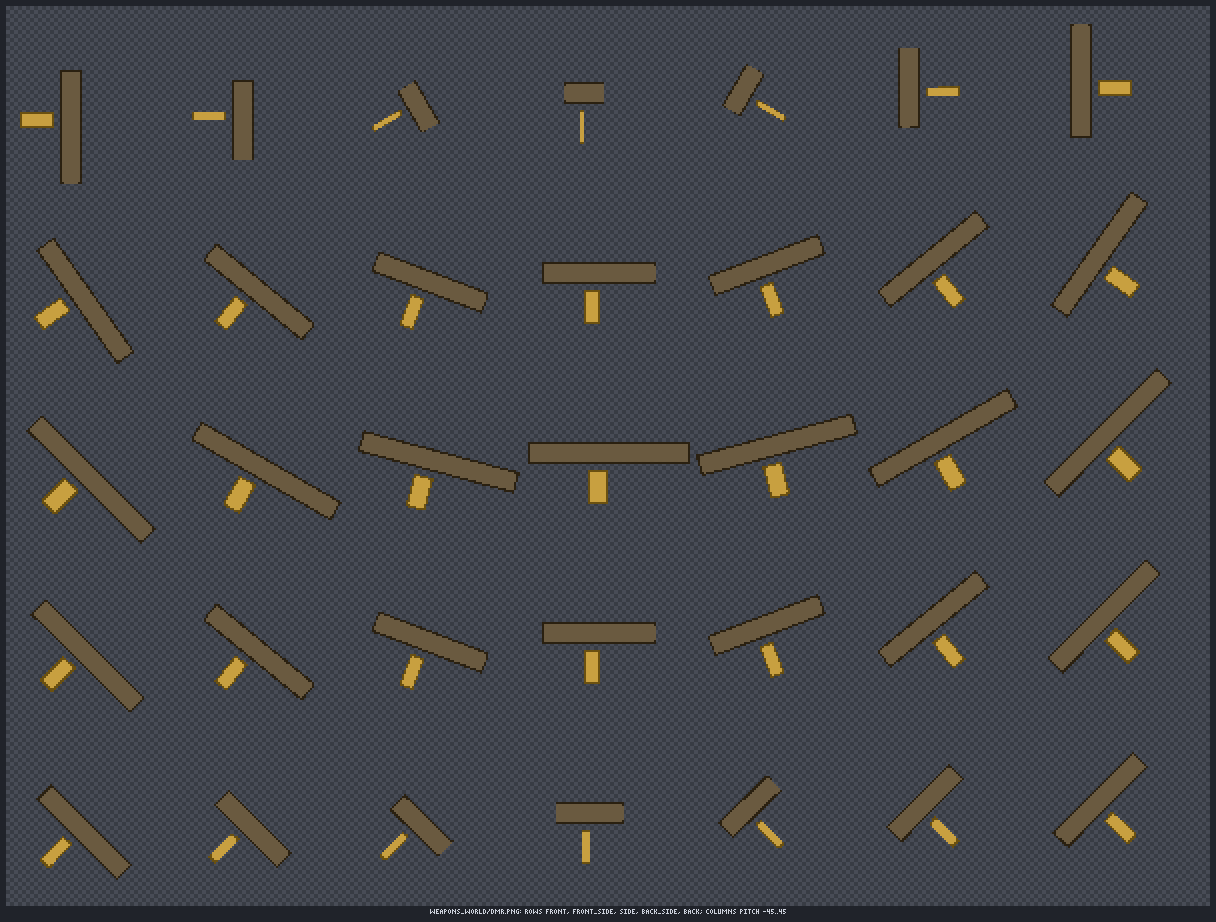
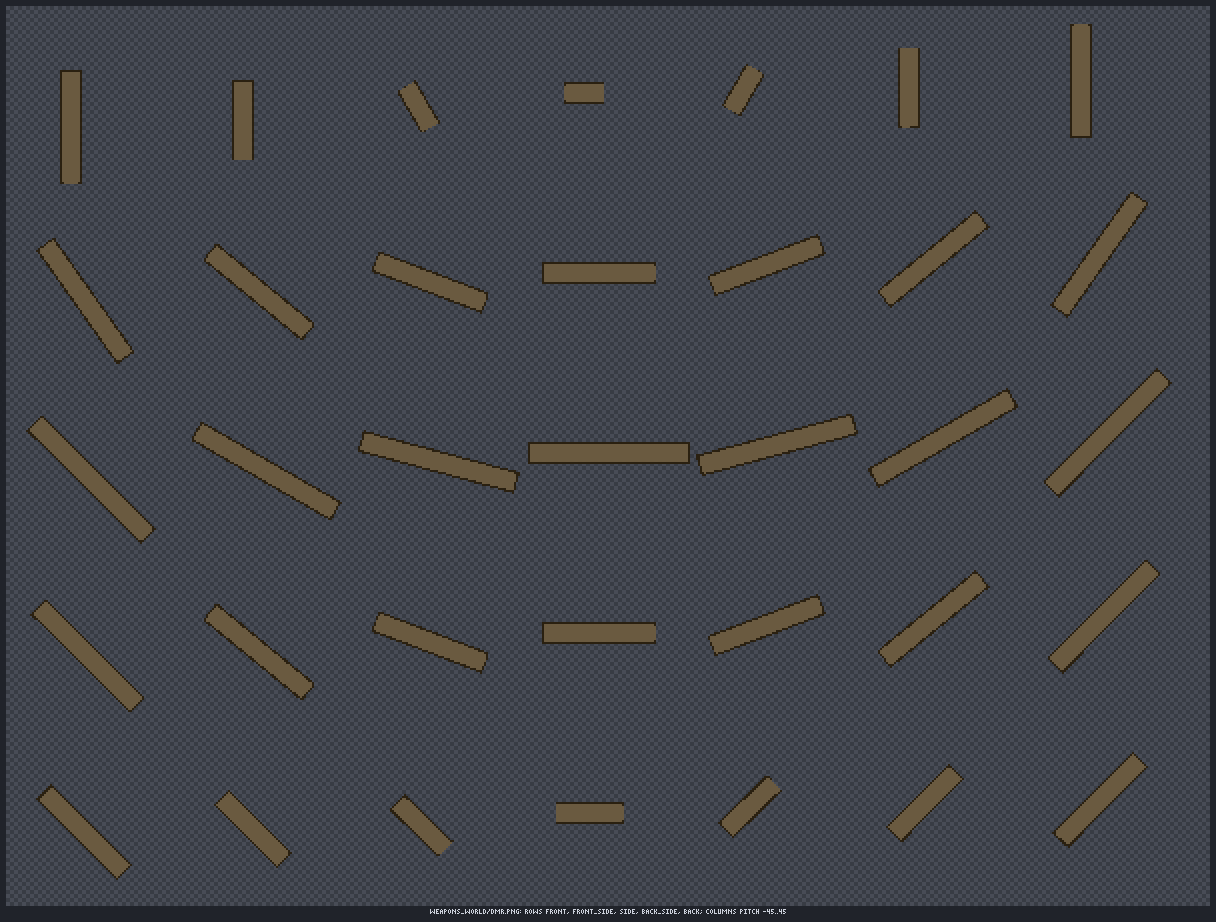
Weapon sheets: magazine as its own overlay (<name>_mag.png, manifest key mag)
Gun cells are rendered without the magazine; weapons_world/<name>_mag.png
holds it on the same grid and the weapon entry gets "mag". The engine draws
it over the gun cell unless the frame socket says mag:false (reload), so the
gun no longer shows a magazine while the hand holds it. composite follows the
same rule.

diff --git a/src/docs.js b/src/docs.js
@@ -207,7 +207,7 @@ RUNTIME WEAPON LAYERS (game draws the gun; contract: weapons_world + per-frame s
 - Handling classes: pistol (pistol, handgun, revolver), smg, rifle (rifle, carbine, energy, dmr, shotgun), lmg, sniper, launcher, none. Every gun of a class keeps grip_support and stock at the class offsets from grip_main (only the barrel / receiver length varies), so hands baked once land on every gun of the class. Tolerance (px at the character frame): support grip [max(2uw, 6% of the class cell), 1.5u] along / across, stock [2uw, 1.5u], foregrip attachments [3uw, 2u] (u = (H-4)/98, uw = min(u, W/66)).
 - weapon {name:"ar", class:"dmr", skin:"mec" | frame:[w,h], attachments?:{scope:"optic"}} = a standalone gun asset: rig "weapon_ar" (one side cell pointing RIGHT, grip_main on the pivot, attachment and magazine cells) + library/weapons/ar.json (class, handling, points, sockets). {name, from_skin:"mec"} copies a character's drawn gun. {name, points:{grip_support:[x,y]}} moves points.
 - conform {weapon, fix?} checks grip_support / stock (and foregrip attachments) against the class geometry; fix:true moves the points to it.
-- weapon_sheet {weapon, out, views?:[front, front_side, side, back_side, back], pitch?:[-45..45 step 15], attach?, skin?} writes weapons_world/<name>.png (rows = views, columns = pitch, grip pixel fixed in every cell) and weapons_world/<name>_att_<a>.png overlays (same grid), every sheet <= 1024 px (fewer pitch steps when a long gun would not fit; the reply says), and merges weapons_world.<name> = {class, views, pitch, file, frame, grip[], muzzle[], attach} into manifest/weapons_world.json.
+- weapon_sheet {weapon, out, views?:[front, front_side, side, back_side, back], pitch?:[-45..45 step 15], attach?, skin?} writes weapons_world/<name>.png (rows = views, columns = pitch, grip pixel fixed in every cell) without the magazine, weapons_world/<name>_mag.png (the magazine alone; the engine draws it over the gun unless the socket says mag:false) and weapons_world/<name>_att_<a>.png overlays (same grid), every sheet <= 1024 px (fewer pitch steps when a long gun would not fit; the reply says), and merges weapons_world.<name> = {class, views, pitch, file, frame, grip[], muzzle[], mag, attach} into manifest/weapons_world.json.
 - batch {..., weapon:"runtime", pitch?} exports the characters gun-free: the body strip without weapon / attachments / magazine, the __front strip (what is drawn over the gun: support hand, near arm) and per anim class + weapon:[{x, y, rot, pitch, order:"between"|"behind", hidden?, mag?:false}] per frame in the set's frame px (pad, frame and anchor kept). rot = degrees clockwise about the grip on top of the cell for the nearest pitch, pitch = elevation (up +). Mirrored views export mirrored sockets (x about the anchor, rot negated); the engine mirrors drawn views itself. Use the same pitch steps in batch and weapon_sheet.
 - composite {skin, weapon, clip, view, select?:[frames]} renders baked vs runtime (body + gun cell at the socket + __front, as the engine draws it) side by side, with the support-grip error per frame.
 - weapon_check {skin, class? | weapons?:[...], clips?, views?} = every gun of the class conforms and, drawn at the skin's sockets, puts its support grip under the baked support hand in every frame (within the class tolerance + 1.5 px).

diff --git a/src/libops.js b/src/libops.js
@@ -572,13 +572,16 @@ Object.assign(LIB_OPS, {
     fs.writeFileSync(path.join(out, file), encodePNG(base.W, base.H, base.data));
     const attach = {};
     for (const n of atts) { const s = sheetImage(C.cells[n], C.frame); attach[n] = `weapons_world/${w.name}_att_${n}.png`; fs.writeFileSync(path.join(out, attach[n]), encodePNG(s.W, s.H, s.data)); }
-    const entry = { class: w.handling, views, pitch, file, frame: C.frame, grip: C.pts.flat().map(() => C.grip), muzzle: C.pts.flat().map((c) => c.muzzle), ...(atts.length ? { attach } : {}) };
+    // the magazine: its own overlay (same grid), drawn by the engine unless the socket says mag:false
+    let mag = null;
+    if (C.cells.mag) { const s = sheetImage(C.cells.mag, C.frame); mag = `weapons_world/${w.name}_mag.png`; fs.writeFileSync(path.join(out, mag), encodePNG(s.W, s.H, s.data)); }
+    const entry = { class: w.handling, views, pitch, file, frame: C.frame, grip: C.pts.flat().map(() => C.grip), muzzle: C.pts.flat().map((c) => c.muzzle), ...(mag ? { mag } : {}), ...(atts.length ? { attach } : {}) };
     const mf = path.isAbsolute(a.manifest ?? '') ? a.manifest : path.join(out, a.manifest ?? 'manifest/weapons_world.json');
     const man = fs.existsSync(mf) ? readJSON(mf) : {};
     man.weapons_world = { ...(man.weapons_world || {}), [w.name]: entry };
     writeJSON(mf, man);
     const note = pitch !== DEFAULT_PITCH && !a.pitch ? `the default pitch steps would pass ${max} px: this sheet uses pitch ${JSON.stringify(pitch)}; export the characters with the same anim_batch pitch so socket rot matches the cells` : undefined;
-    return { weapon: w.name, file: path.join(out, file), size: [base.W, base.H], frame: C.frame, pitch, ...(note ? { note } : {}), cells: views.length * pitch.length, attach: Object.keys(attach), manifest: mf, ...this.pathNote(a.out, out) };
+    return { weapon: w.name, file: path.join(out, file), size: [base.W, base.H], frame: C.frame, pitch, ...(note ? { note } : {}), cells: views.length * pitch.length, ...(mag ? { mag: path.join(out, mag) } : {}), attach: Object.keys(attach), manifest: mf, ...this.pathNote(a.out, out) };
   },
 
   /**
@@ -600,7 +603,7 @@ Object.assign(LIB_OPS, {
       const f = R.frames[i];
       if (!f) continue;
       const col = pitchCol(pitch, f.sock.pitch);
-      const comp = compositeFrame(f.body, f.front, C.cells.base[0][col], C.frame, C.grip, f.sock, [FW, FH]);
+      const comp = compositeFrame(f.body, f.front, { base: C.cells.base[0][col], mag: C.cells.mag?.[0][col] }, C.frame, C.grip, f.sock, [FW, FH]);
       const err = supportError(f, C, 0, pitch);
       errors.push(err === null ? null : Math.round(err * 10) / 10);
       items.push({ img: { width: FW, height: FH, data: f.full }, label: `baked ${i}` }, { img: { width: FW, height: FH, data: comp }, label: `runtime ${i}${err !== null ? ` ${err.toFixed(1)}px` : ''}` });

diff --git a/src/weaponassets.js b/src/weaponassets.js
@@ -148,8 +148,11 @@ export function renderWeaponCells(asset, rigDef, doc, { views = SHEET_VIEWS, pit
   const g = asset.points.grip_main.at, pv = partIn(rig, 'weapon', 'side').pivot;
   const cache = new Map();
   const atParts = new Set(Object.values(asset.attachments).map((a) => a.part));
-  const hideAll = (keep) => rig.order.filter((n) => n !== 'weapon' && n !== 'mag' && !keep.includes(n) && atParts.has(n));
+  const hasMag = !!rig.parts.mag;
+  const hideAll = (keep) => rig.order.filter((n) => n !== 'weapon' && !keep.includes(n) && (atParts.has(n) || n === 'mag'));
+  // base: the gun without its magazine (+ the attach list); mag: the magazine alone (same grid)
   const sets = { base: { hide: hideAll(attach.map((n) => asset.attachments[n].part)) } };
+  if (hasMag) sets.mag = { only: ['mag'] };
   for (const n of layers || []) sets[n] = { only: [asset.attachments[n].part] };
   const raw = {}, pts = [];
   let ub = null;
@@ -223,6 +226,14 @@ export function socketOf(rig, solved, trace, { pad = [0, 0, 0, 0], pitch = DEFAU
   return s;
 }
 
+/** Cells of the same grid drawn over each other (first = bottom). */
+export function mergeCells(list) {
+  if (list.length === 1) return list[0];
+  const out = new Uint8ClampedArray(list[0].length);
+  for (const c of list) for (let i = 0; i < c.length; i += 4) if (c[i + 3]) out.set(c.subarray(i, i + 4), i);
+  return out;
+}
+
 /** Engine-identical compositing of one frame: body, gun cell rotated about its grip onto the socket, __front. */
 export function compositeFrame(body, front, cell, [fw, fh], grip, sock, [FW, FH]) {
   const out = new Uint8ClampedArray(FW * FH * 4);
@@ -238,6 +249,11 @@ export function compositeFrame(body, front, cell, [fw, fh], grip, sock, [FW, FH]
       const o = (v * fw + u) * 4;
       if (cell[o + 3]) gun.set(cell.subarray(o, o + 4), (y * FW + x) * 4);
     }
+  }
+  // the magazine overlay goes over the gun cell unless the socket says mag:false (engine rule)
+  if (Array.isArray(cell) || cell?.base) {
+    const layers = Array.isArray(cell) ? cell : [cell.base, ...(sock.mag === false ? [] : [cell.mag])];
+    return compositeFrame(body, front, mergeCells(layers.filter(Boolean)), [fw, fh], grip, sock, [FW, FH]);
   }
   const order = sock.order || 'between';
   if (order === 'behind') { over(gun); over(body); over(front); }

diff --git a/test/weaponsockets.test.js b/test/weaponsockets.test.js
@@ -150,6 +150,11 @@ test('weapon assets: conform against the class geometry (fix), world sheet <= 10
   const ov = decodePNG(fs.readFileSync(path.join(out, man.attach.scope)));
   assert.deepEqual([ov.width, ov.height], [png.width, png.height]);
   assert.ok(count(ov.data, '#c040c0') > 0 && count(png.data, '#c040c0') === 0);
+  // the magazine: its own overlay sheet (same grid), not in the gun cells (engine hides it on mag:false)
+  assert.equal(man.mag, 'weapons_world/ar_mag.png');
+  const mg = decodePNG(fs.readFileSync(path.join(out, man.mag)));
+  assert.deepEqual([mg.width, mg.height], [png.width, png.height]);
+  assert.ok(count(mg.data, '#c8a040') > 0 && count(png.data, '#c8a040') === 0, 'magazine only on the mag sheet');
   // a big sniper still fits in 1024 px (fewer pitch steps when needed)
   const e2 = new Engine({ home: tmp() });
   e2.run('anim_skeleton', { name: 'big', template: 'humanoid_hd', frame: [256, 384], weapon: { class: 'sniper' } });

diff --git a/README.md b/README.md
@@ -152,7 +152,7 @@ Author motion once per skeleton and render it on every character. A skeleton is 
 - **Runtime weapon layers:** the game draws the gun, so one character export works with every gun of its handling class (pistol, smg, rifle, lmg, sniper, launcher).
   - `batch {weapon: "runtime"}` writes the body strip without the gun and the `__front` strip, which holds what is drawn over the gun. Each anim gets `class` and a per-frame `weapon` socket: `{x, y, rot, pitch, order, hidden?}` in the set's frame pixels. `pad`, `frame` and `anchor` are unchanged.
   - `weapon {name, class, skin}` makes a standalone gun asset with its grips at the class geometry. Use `from_skin` to copy a character's gun instead. `conform` checks the grips against the class geometry.
-  - `weapon_sheet` writes `weapons_world/<name>.png` with rows for the five views and columns for pitch, plus one overlay sheet per attachment. Each sheet is at most 1024 px. It merges `manifest/weapons_world.json`.
+  - `weapon_sheet` writes `weapons_world/<name>.png` with rows for the five views and columns for pitch, without the magazine. The magazine gets its own overlay, `<name>_mag.png`, which the engine leaves out on `mag:false` frames such as a reload. There is also one overlay sheet per attachment. Each sheet is at most 1024 px. It merges `manifest/weapons_world.json`.
   - `composite` shows the baked frame next to the runtime frame.
   - `weapon_check` verifies that the hands stay on the grips of every gun in the class.
   - The class table, grip geometry (in body units), carry positions and `conform` live in `src/handling.js`. They are shared with other pipelines, such as first-person viewmodels.

diff --git a/CHANGELOG.md b/CHANGELOG.md
@@ -42,7 +42,7 @@
 - New actions:
   - `weapon`: a standalone gun asset (rig plus `library/weapons/<name>.json`) with its grips at the class geometry, or copied from a skin's gun.
   - `conform`: checks the gun against its class geometry; `fix` moves the points onto it.
-  - `weapon_sheet`: a 5-view × pitch world sheet plus attachment overlays, each at most 1024 px, merged into `manifest/weapons_world.json`.
+  - `weapon_sheet`: a 5-view × pitch world sheet without the magazine, a magazine overlay (`<name>_mag.png`, manifest key `mag`; left out on `mag:false` frames) and attachment overlays. Each sheet is at most 1024 px, and the result is merged into `manifest/weapons_world.json`.
   - `composite`: the baked frame next to the engine-identical runtime frame.
   - `weapon_check`: hands on the grips across every gun of a class.
 - `batch {weapon: "runtime"}`: exports gun-free body and `__front` strips with per-frame sockets `{x, y, rot, pitch, order, hidden?}`. The sockets are mirrored for mirror views, and the auto `pad`, `frame` and `anchor` are kept.
